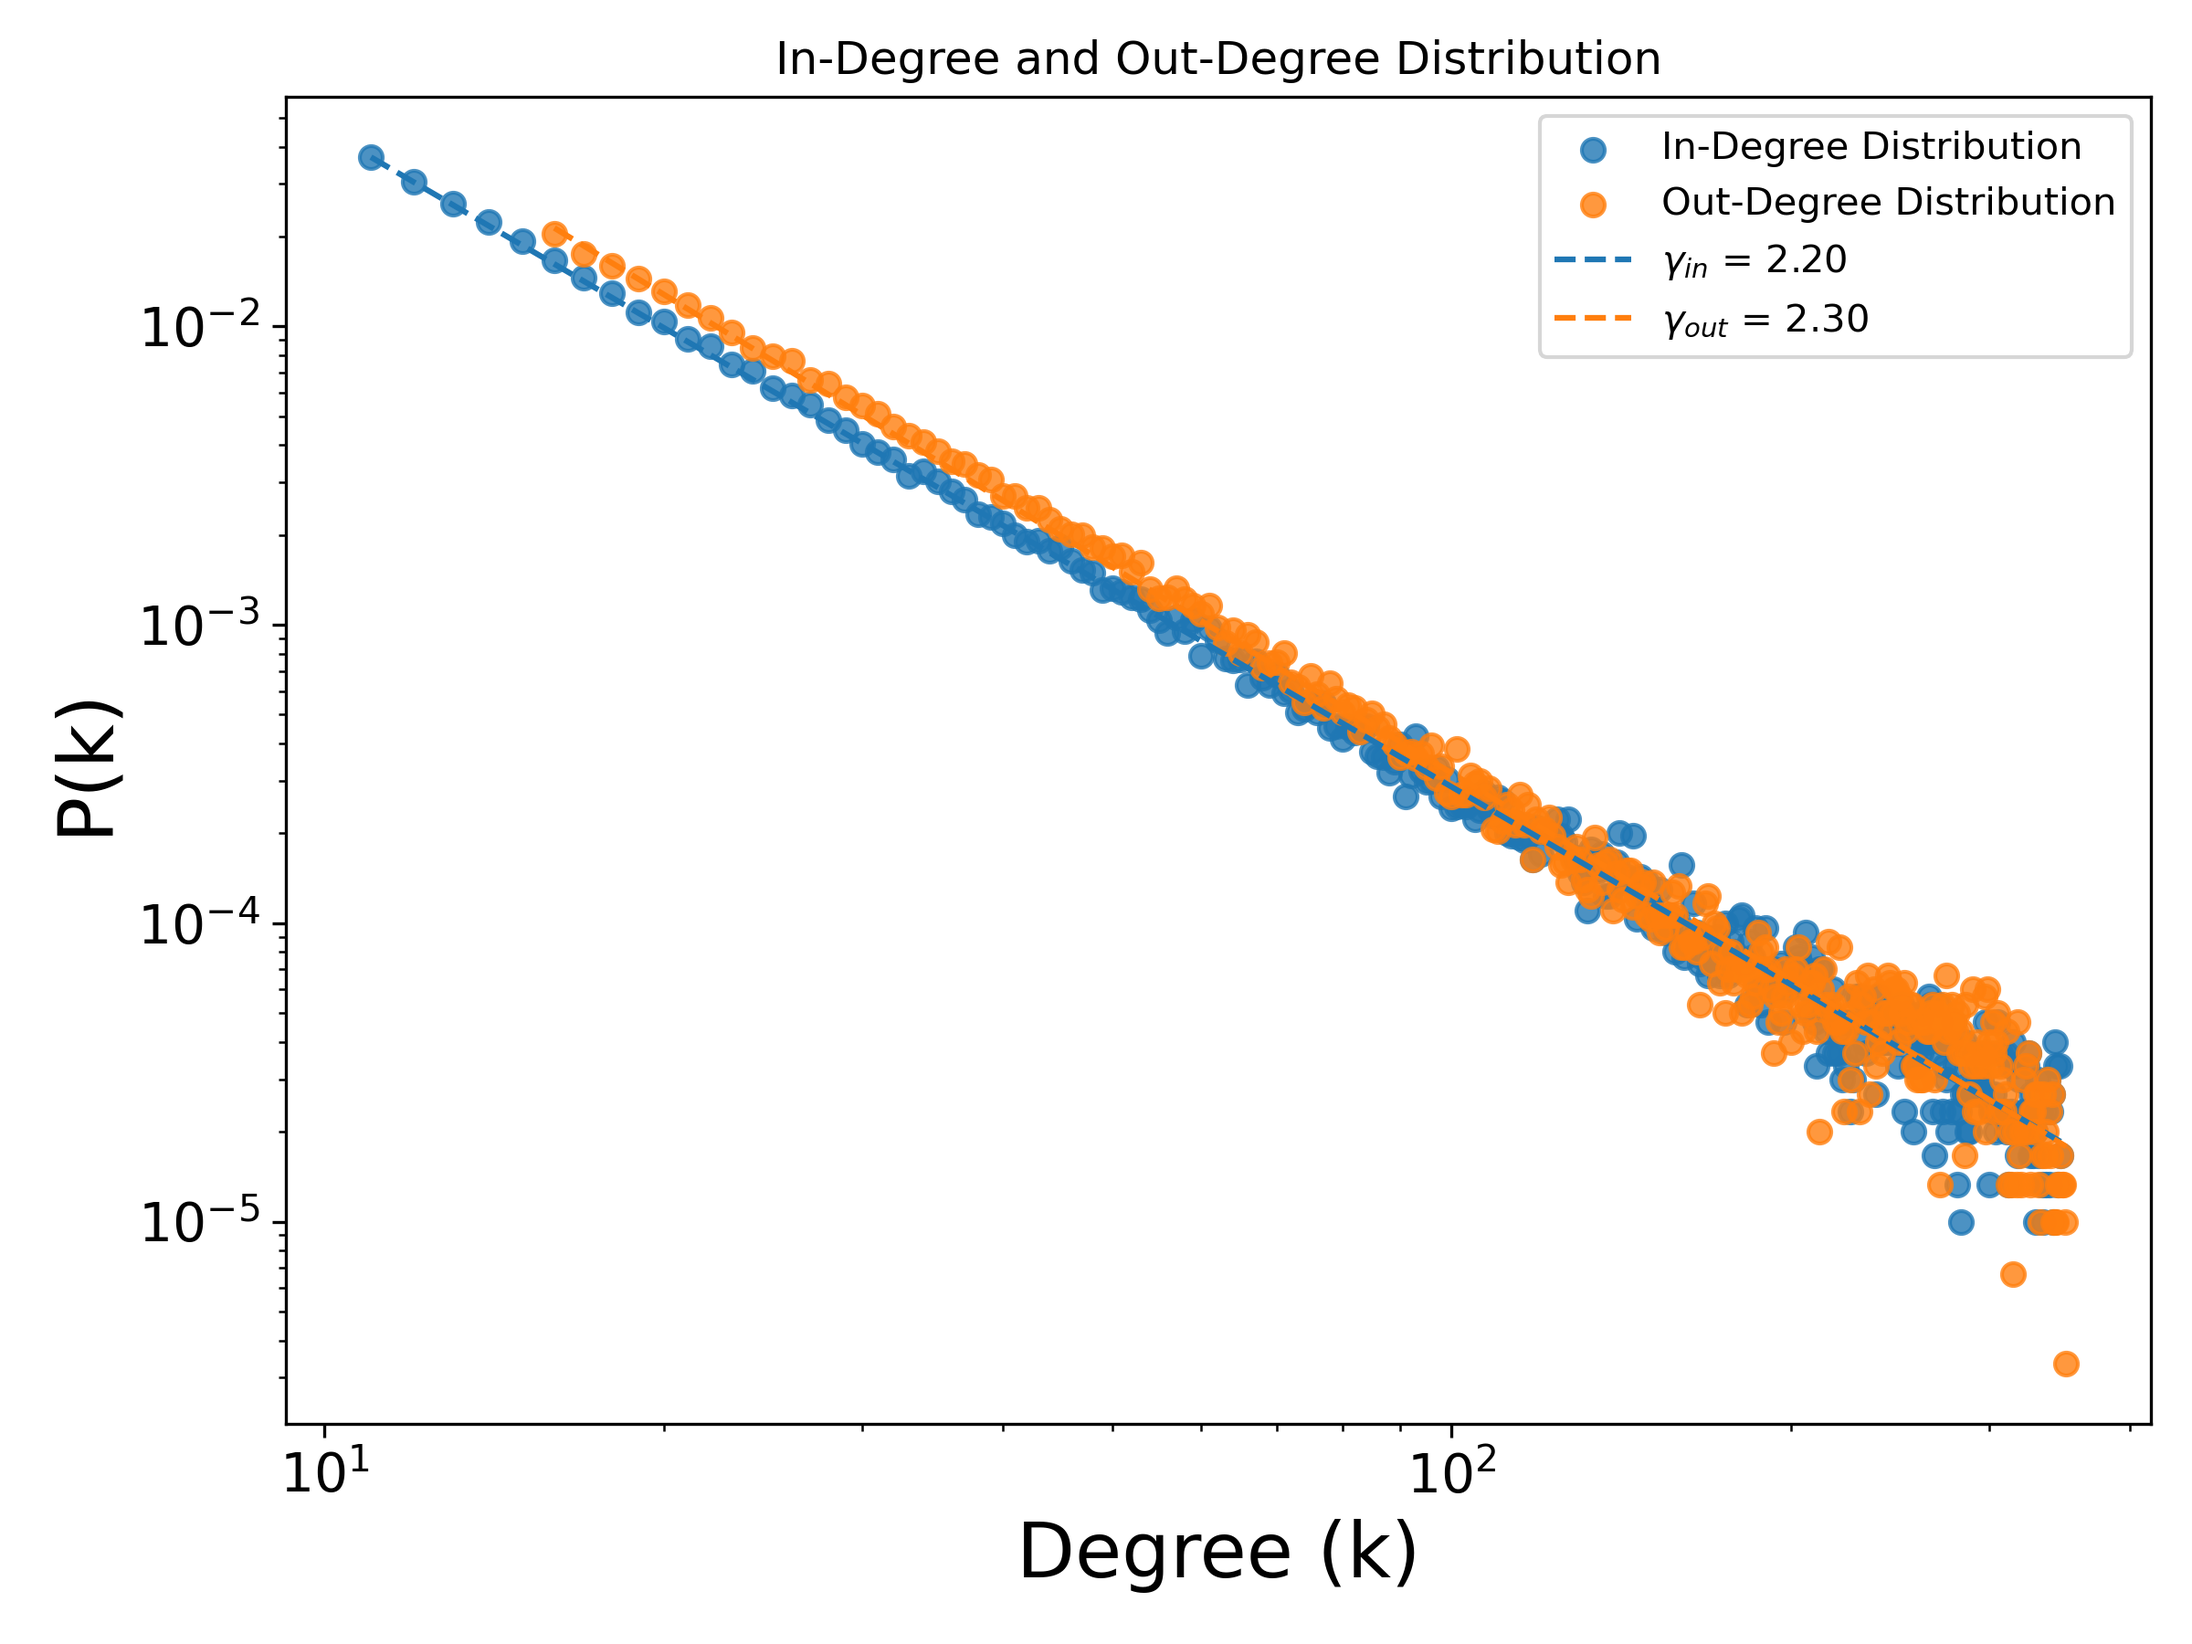
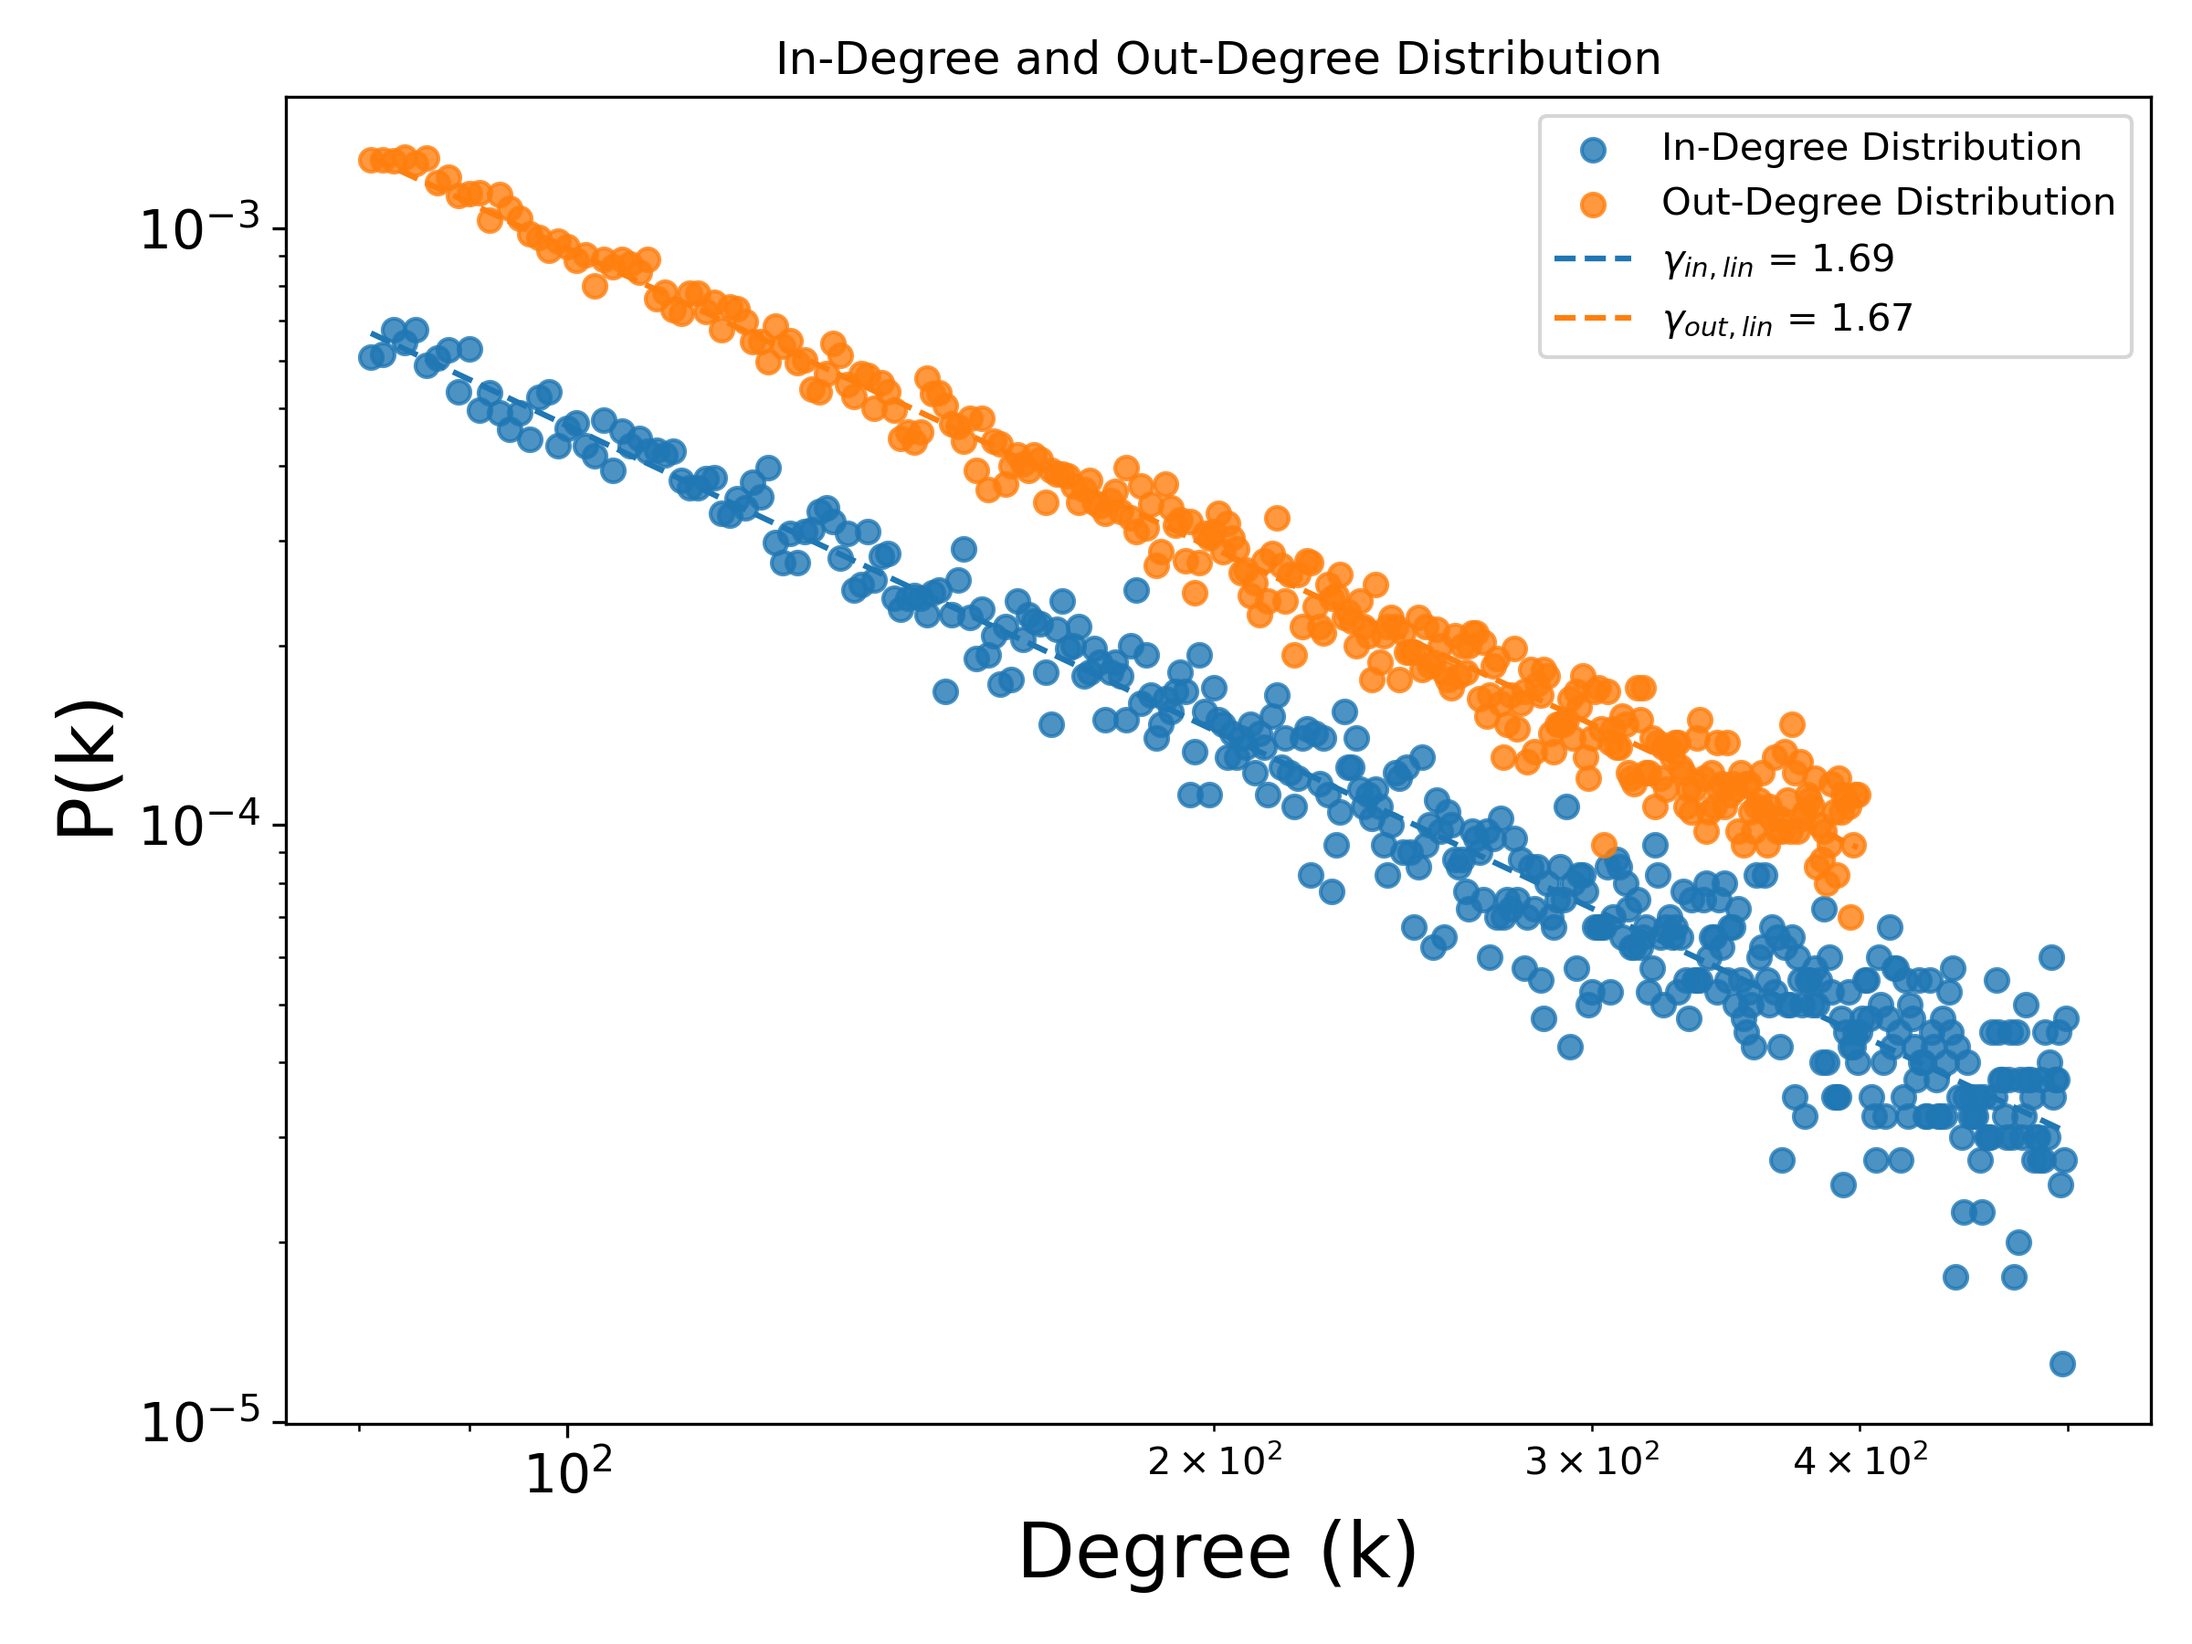
revise power law

diff --git a/analysis/degree_distribution.py b/analysis/degree_distribution.py
@@ -1,6 +1,59 @@
 import numpy as np
 import matplotlib.pyplot as plt
 
+
+def weighted_linear_fit(k, pk):
+    """Fit log10 P(k) = a*log10(k) + b."""
+    log_k = np.log10(k)
+    log_pk = np.log10(pk)
+    a, b = np.polyfit(log_k, log_pk, 1)
+    return a, b
+
+
+def mle_exponent_from_pk(k, pk, kmin):
+    """Continuous-tail MLE on binned degree PDF."""
+    mask = (k >= kmin) & (pk > 0)
+    if np.count_nonzero(mask) < 5:
+        return np.nan, 0.0, 0
+    kt = k[mask]
+    wt = pk[mask]
+    s = np.sum(wt * np.log(kt / (kmin - 0.5)))
+    n = np.sum(wt)
+    if s <= 0:
+        return np.nan, n, np.count_nonzero(mask)
+    tau = 1.0 + n / s
+    return tau, n, np.count_nonzero(mask)
+
+
+def ks_for_kmin(k, pk, kmin, tau):
+    """KS distance between empirical tail CDF and fitted power-law tail CDF."""
+    mask = (k >= kmin) & (pk > 0)
+    kt = k[mask]
+    wt = pk[mask]
+    wt = wt / np.sum(wt)
+    emp_cdf = np.cumsum(wt)
+    model_pdf = kt ** (-tau)
+    model_pdf = model_pdf / np.sum(model_pdf)
+    model_cdf = np.cumsum(model_pdf)
+    return np.max(np.abs(emp_cdf - model_cdf))
+
+
+def auto_mle_with_kmin_scan(k, pk, kmin_start=5):
+    """Scan kmin and return (best_tau, best_kmin, best_ks, tail_mass, n_bins)."""
+    kmax = int(np.max(k))
+    best = None
+    for kmin in range(kmin_start, kmax + 1):
+        tau, tail_mass, n_bins = mle_exponent_from_pk(k, pk, kmin)
+        if np.isnan(tau):
+            continue
+        if n_bins < 20 or tail_mass < 0.01:
+            continue
+        ks = ks_for_kmin(k, pk, kmin, tau)
+        if best is None or ks < best[2]:
+            best = (tau, kmin, ks, tail_mass, n_bins)
+    return best
+
+
 datain = np.loadtxt("output/indegree_distribution.txt", dtype=float)
 dataout = np.loadtxt("output/outdegree_distribution.txt", dtype=float)
 
@@ -15,32 +68,37 @@ max_kin = max(kin)
 max_kout = max(kout)
 
 # 移除 k=0（因為 log(0) 不存在）
-mask = (pk_in > 0) & (kin > min_kin*10) & (kin < max_kin*0.4)
-kin = kin[mask]
-pk_in = pk_in[mask]
-mask = (pk_out > 0) & (kout > min_kout*15) & (kout < max_kout*0.8)
-kout = kout[mask]
-pk_out = pk_out[mask]
+mask_in_fit = (pk_in > 0) & (kin > 80) & (kin < 500)
+mask_out_fit = (pk_out > 0) & (kout > 80) & (kout < 400)
+kin_fit = kin[mask_in_fit]
+pk_in_fit = pk_in[mask_in_fit]
+kout_fit = kout[mask_out_fit]
+pk_out_fit = pk_out[mask_out_fit]
 
-# 轉成 log
-log_kin = np.log10(kin)
-log_pk_in = np.log10(pk_in)
-log_kout = np.log10(kout)
-log_pk_out = np.log10(pk_out)
+# 線性擬合（舊方法）
+slopein, interceptin = weighted_linear_fit(kin_fit, pk_in_fit)
+slopeout, interceptout = weighted_linear_fit(kout_fit, pk_out_fit)
+print(f"[log-log linear fit] In-degree exponent: {-slopein:.4f} (fit range 80<k<500)")
+print(f"[log-log linear fit] Out-degree exponent: {-slopeout:.4f} (fit range 80<k<400)")
 
-# 對 in-degree 分布進行線性回歸
-coeffsin = np.polyfit(log_kin, log_pk_in, 1)
-slopein = coeffsin[0]
-# 對 out-degree 分布進行線性回歸
-coeffsout = np.polyfit(log_kout, log_pk_out, 1)
-slopeout = coeffsout[0]
-print(f"In-degree distribution slope: {-slopein:.4f}")
-print(f"Out-degree distribution slope: {-slopeout:.4f}")
+# 自動 kmin 掃描 + MLE（較穩健）
+in_best = auto_mle_with_kmin_scan(kin, pk_in, kmin_start=5)
+out_best = auto_mle_with_kmin_scan(kout, pk_out, kmin_start=5)
+if in_best is not None:
+    tau, kmin, ks, tail_mass, n_bins = in_best
+    print(f"[auto MLE] In-degree exponent: {tau:.4f}, kmin={kmin}, KS={ks:.4f}, tail_mass={tail_mass:.4f}, bins={n_bins}")
+else:
+    print("[auto MLE] In-degree exponent: unavailable (insufficient tail data)")
+if out_best is not None:
+    tau, kmin, ks, tail_mass, n_bins = out_best
+    print(f"[auto MLE] Out-degree exponent: {tau:.4f}, kmin={kmin}, KS={ks:.4f}, tail_mass={tail_mass:.4f}, bins={n_bins}")
+else:
+    print("[auto MLE] Out-degree exponent: unavailable (insufficient tail data)")
 
 # plot
 plt.figure(figsize=(8, 6))
-plt.scatter(kin, pk_in, label="In-Degree Distribution", alpha=0.8)
-plt.scatter(kout, pk_out, label="Out-Degree Distribution", alpha=0.8)
+plt.scatter(kin_fit, pk_in_fit, label="In-Degree Distribution", alpha=0.8)
+plt.scatter(kout_fit, pk_out_fit, label="Out-Degree Distribution", alpha=0.8)
 plt.tick_params(axis='both', which='major', labelsize=14)  # 主刻度字體
 plt.xscale('log')
 plt.yscale('log')
@@ -48,12 +106,13 @@ plt.xlabel("Degree (k)", fontsize=20)
 plt.ylabel("P(k)", fontsize=20)
 plt.title("In-Degree and Out-Degree Distribution")
 
-fit_pk_in = 10 ** (coeffsin[1] + coeffsin[0] * log_kin)
-fit_pk_out = 10 ** (coeffsout[1] + coeffsout[0] * log_kout)
-plt.plot(kin, fit_pk_in, color='tab:blue', linestyle='--', label=r"$\gamma_{{in}}$ = {:.2f}".format(-slopein))
-plt.plot(kout, fit_pk_out, color='tab:orange', linestyle='--', label=r"$\gamma_{{out}}$ = {:.2f}".format(-slopeout))
+fit_pk_in = 10 ** (interceptin + slopein * np.log10(kin_fit))
+fit_pk_out = 10 ** (interceptout + slopeout * np.log10(kout_fit))
+plt.plot(kin_fit, fit_pk_in, color='tab:blue', linestyle='--', label=r"$\gamma_{{in,lin}}$ = {:.2f}".format(-slopein))
+plt.plot(kout_fit, fit_pk_out, color='tab:orange', linestyle='--', label=r"$\gamma_{{out,lin}}$ = {:.2f}".format(-slopeout))
 
 plt.legend()
 plt.tight_layout()
 plt.savefig("figure/degree_distribution.png", dpi=300)
+# if "agg" not in plt.get_backend().lower():
 plt.show()
